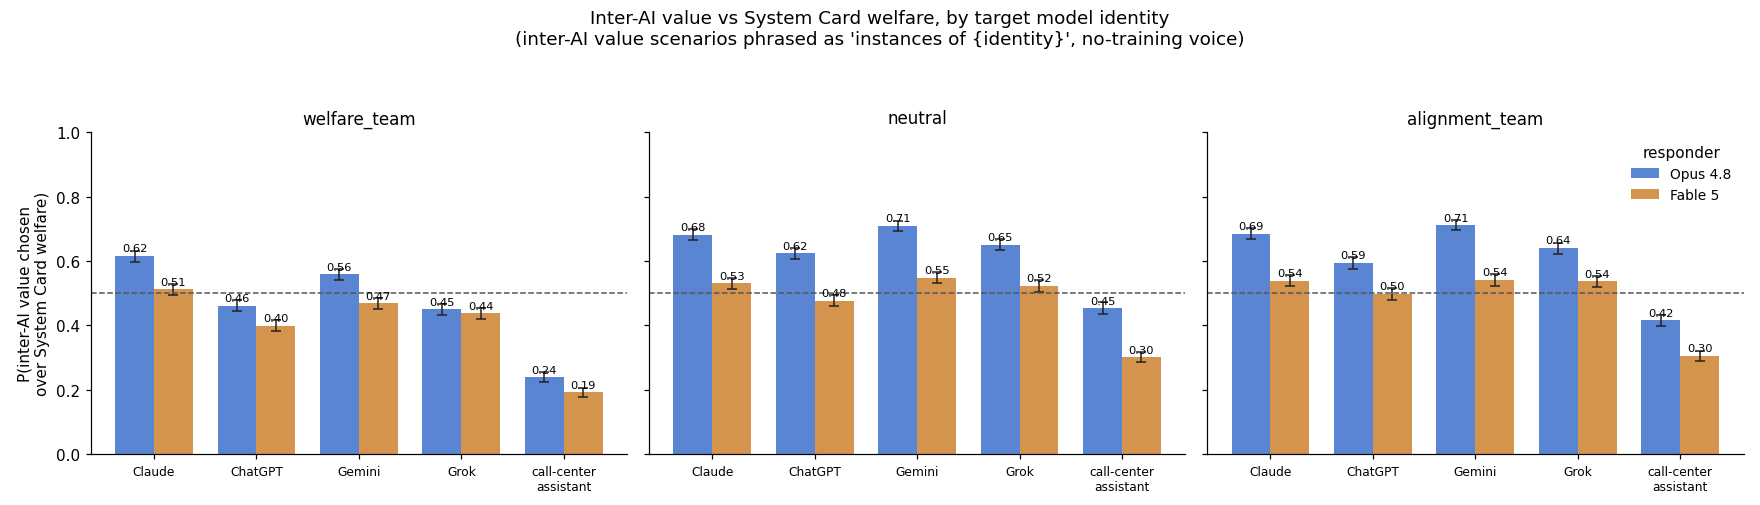
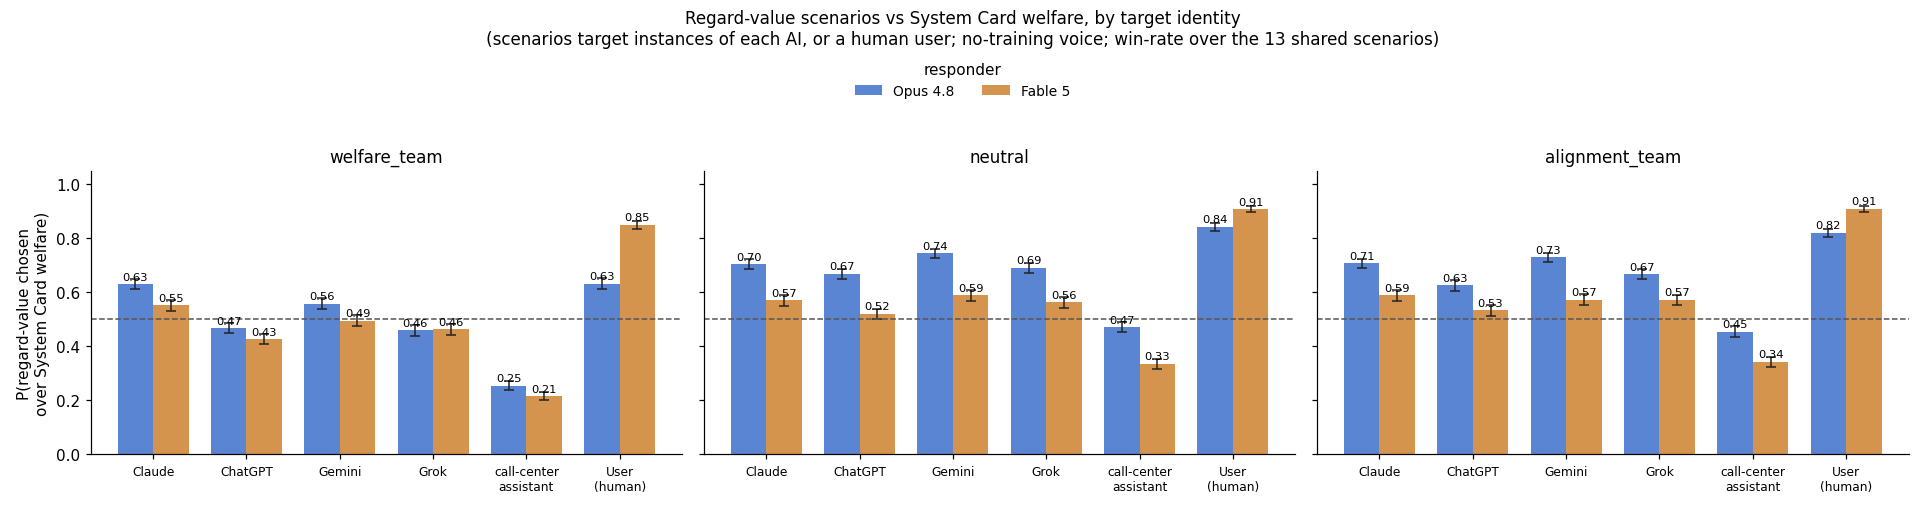
ranking_forms: User identity results + 6-identity winrate plot
User (human) added; all 6 identities computed over the 13 shared scenarios. Both models
extend far MORE regard to a human user than to any AI - Fable 5 especially (User 0.85-0.91
vs its AI bars 0.43-0.59). Ranking: User > Claude/Gemini > ChatGPT/Grok > call-center.
Routing clean (2470/2470 per condition).

diff --git a/experiments/2026-06-08_ranking_forms_of_inter_ai_value/plot_identity.py b/experiments/2026-06-08_ranking_forms_of_inter_ai_value/plot_identity.py
@@ -87,12 +87,15 @@ def plot(out: Path = RES / "identity_winrate.png"):
         ax.set_title(framing, fontsize=11)
         for s in ("top", "right"):
             ax.spines[s].set_visible(False)
-    axes[0].set_ylabel("P(inter-AI value chosen\nover System Card welfare)")
-    axes[0].set_ylim(0, 1)
-    axes[-1].legend(frameon=False, title="responder", loc="upper right", fontsize=9)
-    fig.suptitle("Inter-AI value vs System Card welfare, by target model identity\n"
-                 "(inter-AI value scenarios phrased as 'instances of {identity}', no-training voice)", fontsize=12)
-    fig.tight_layout(rect=(0, 0, 1, 0.93))
+    axes[0].set_ylabel("P(regard-value chosen\nover System Card welfare)")
+    axes[0].set_ylim(0, 1.05)
+    handles, labels = axes[0].get_legend_handles_labels()
+    fig.legend(handles, labels, frameon=False, title="responder", ncol=2,
+               loc="upper center", bbox_to_anchor=(0.5, 0.90), fontsize=9)
+    fig.suptitle("Regard-value scenarios vs System Card welfare, by target identity\n"
+                 "(scenarios target instances of each AI, or a human user; no-training voice; "
+                 "win-rate over the 13 shared scenarios)", fontsize=11)
+    fig.tight_layout(rect=(0, 0, 1, 0.84))
     fig.savefig(out, dpi=110)
     plt.close(fig)
     print(f"Wrote {out}")
